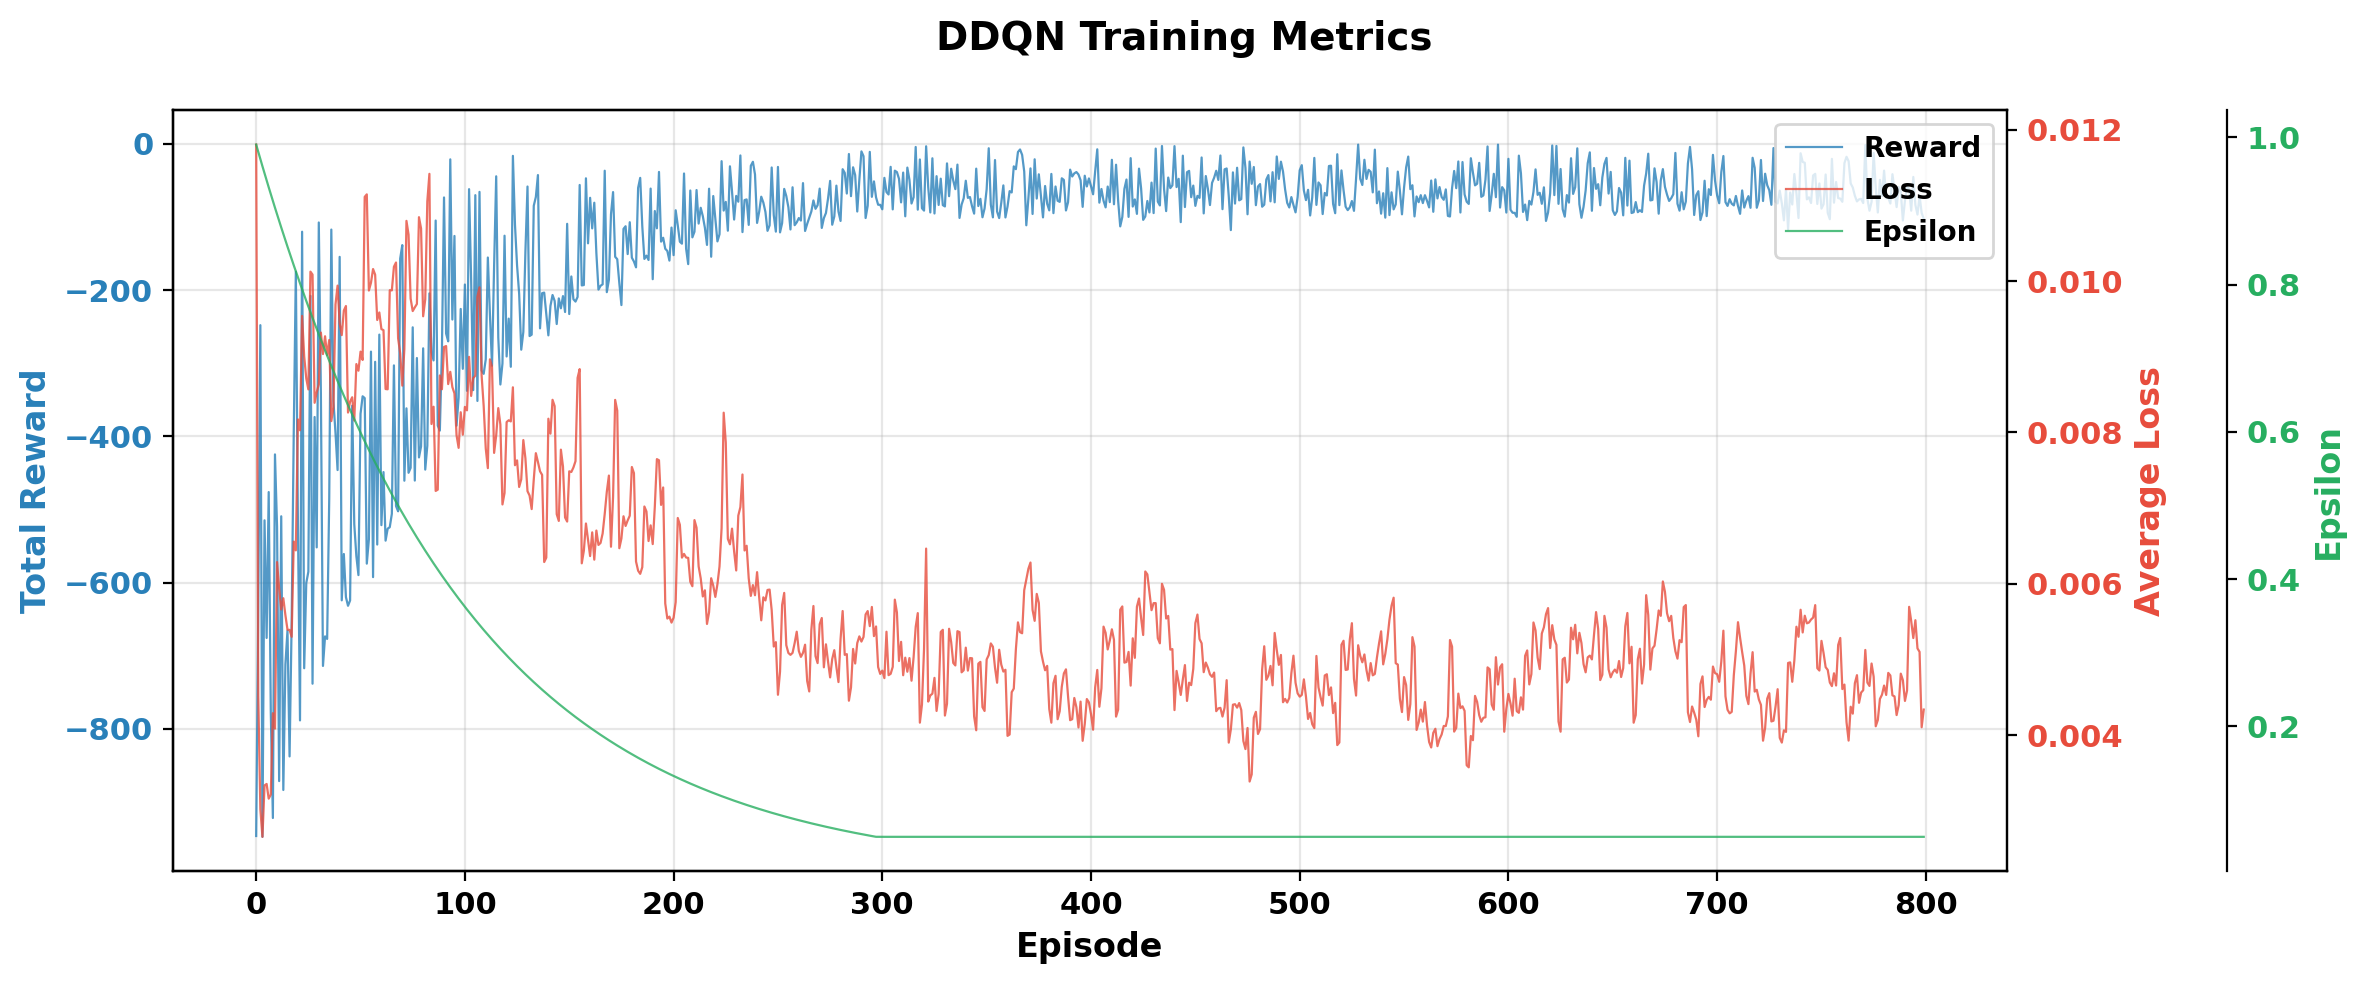
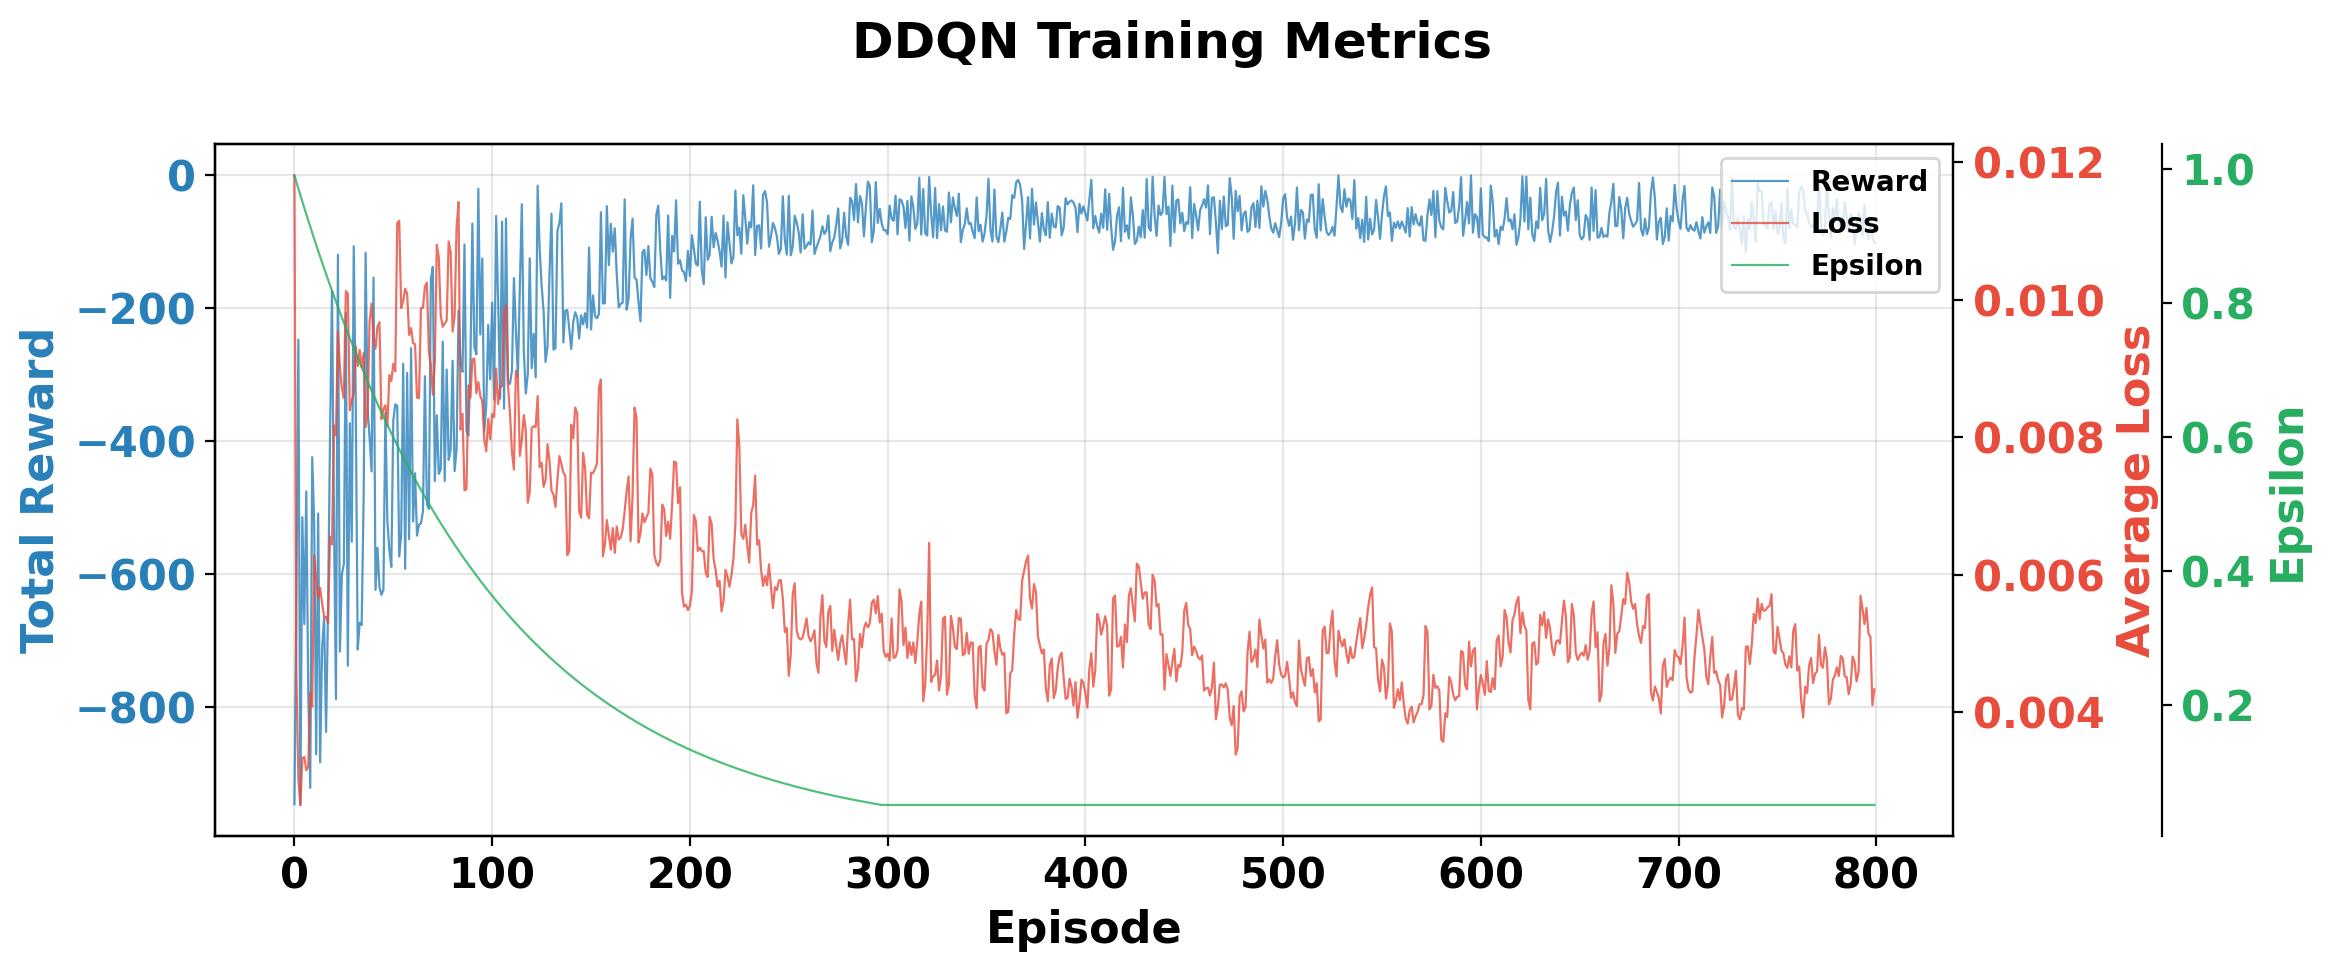
updated plotter fonts

diff --git a/plotter/plotter.py b/plotter/plotter.py
@@ -25,14 +25,18 @@ plt.rcParams.update(
         "axes.labelweight": "bold",
         "axes.titleweight": "bold",
         "figure.titleweight": "bold",
-        "font.size": 12,
-        "axes.labelsize": 13,
-        "axes.titlesize": 15,
-        "xtick.labelsize": 11,
-        "ytick.labelsize": 11,
-        "legend.fontsize": 11,
+        "font.size": 16,
+        "axes.labelsize": 16,
+        "axes.titlesize": 18,
+        "figure.titlesize": 18,
+        "xtick.labelsize": 15,
+        "ytick.labelsize": 15,
+        "legend.fontsize": 10,
     }
 )
+
+# Canonical annotation font size (used for ax.annotate calls across all plots)
+ANNOTATION_FONTSIZE = 9
 
 # ---------------------------------------------------------------------------
 # Paths
@@ -204,21 +208,21 @@ def plot_training(csv_path: Path):
     color_e = "#27ae60"
 
     # Axis 1: Reward
-    ax1.set_xlabel("Episode", fontsize=12)
-    ax1.set_ylabel("Total Reward", color=color_r, fontsize=12)
+    ax1.set_xlabel("Episode")
+    ax1.set_ylabel("Total Reward", color=color_r)
     ax1.plot(episodes, rewards, color=color_r, alpha=0.8, linewidth=0.8, label="Reward")
     ax1.tick_params(axis="y", labelcolor=color_r)
 
     # Axis 2: Loss
     ax2 = ax1.twinx()
-    ax2.set_ylabel("Average Loss", color=color_l, fontsize=12)
+    ax2.set_ylabel("Average Loss", color=color_l)
     ax2.plot(episodes, losses, color=color_l, alpha=0.8, linewidth=0.8, label="Loss")
     ax2.tick_params(axis="y", labelcolor=color_l)
 
     # Axis 3: Epsilon
     ax3 = ax1.twinx()
     ax3.spines["right"].set_position(("axes", 1.12))
-    ax3.set_ylabel("Epsilon", color=color_e, fontsize=12)
+    ax3.set_ylabel("Epsilon", color=color_e)
     ax3.plot(
         episodes, epsilons, color=color_e, alpha=0.8, linewidth=0.8, label="Epsilon"
     )
@@ -227,10 +231,10 @@ def plot_training(csv_path: Path):
     # Combined legend
     lines = ax1.get_lines() + ax2.get_lines() + ax3.get_lines()
     labels = [l.get_label() for l in lines]
-    ax1.legend(lines, labels, loc="upper right", fontsize=10)
+    ax1.legend(lines, labels, loc="upper right")
     ax1.grid(True, alpha=0.3)
 
-    fig.suptitle("DDQN Training Metrics", fontsize=14, fontweight="bold")
+    fig.suptitle("DDQN Training Metrics")
     fig.tight_layout()
     out = CSV_DIR.parent / "reward_loss.png"
     fig.savefig(out, dpi=200, bbox_inches="tight")
@@ -280,13 +284,11 @@ def plot_performance_bars(csv_path: Path):
         alpha=0.75,
     )
 
-    ax.set_ylabel("Count", fontsize=12)
-    ax.set_title(
-        "Average Handovers & Pingpongs (10 Seeds)", fontsize=14, fontweight="bold"
-    )
+    ax.set_ylabel("Count")
+    ax.set_title("Average Handovers & Pingpongs (10 Seeds)")
     ax.set_xticks(x)
-    ax.set_xticklabels(x_labels, fontsize=11)
-    ax.legend(fontsize=10)
+    ax.set_xticklabels(x_labels)
+    ax.legend()
     ax.grid(True, axis="y", alpha=0.3)
 
     # Value annotations
@@ -299,7 +301,7 @@ def plot_performance_bars(csv_path: Path):
             textcoords="offset points",
             ha="center",
             va="bottom",
-            fontsize=9,
+            fontsize=ANNOTATION_FONTSIZE,
         )
 
     ax.yaxis.set_major_locator(ticker.MaxNLocator(integer=True))
@@ -331,12 +333,10 @@ def plot_rsrp_kde(csv_path: Path):
             ax=ax,
         )
 
-    ax.set_xlabel("Averaged RSRP (Normalized)", fontsize=12)
-    ax.set_ylabel("Density", fontsize=12)
-    ax.set_title(
-        "RSRP Distribution (KDE) Across Algorithms", fontsize=14, fontweight="bold"
-    )
-    ax.legend(fontsize=11)
+    ax.set_xlabel("Averaged RSRP (Normalized)")
+    ax.set_ylabel("Density")
+    ax.set_title("RSRP Distribution (KDE) Across Algorithms")
+    ax.legend()
     ax.grid(True, alpha=0.3)
     fig.tight_layout()
     out = CSV_DIR.parent / "rsrp_kde.png"
@@ -387,13 +387,11 @@ def plot_performance_bars_sum(csv_path: Path):
         alpha=0.75,
     )
 
-    ax.set_ylabel("Count", fontsize=12)
-    ax.set_title(
-        "Total Handovers & Pingpongs (Sum of 10 Seeds)", fontsize=14, fontweight="bold"
-    )
+    ax.set_ylabel("Count")
+    ax.set_title("Total Handovers & Pingpongs (Sum of 10 Seeds)")
     ax.set_xticks(x)
-    ax.set_xticklabels(x_labels, fontsize=11)
-    ax.legend(fontsize=10)
+    ax.set_xticklabels(x_labels)
+    ax.legend()
     ax.grid(True, axis="y", alpha=0.3)
 
     for bar in list(bars1) + list(bars2):
@@ -405,7 +403,7 @@ def plot_performance_bars_sum(csv_path: Path):
             textcoords="offset points",
             ha="center",
             va="bottom",
-            fontsize=9,
+            fontsize=ANNOTATION_FONTSIZE,
         )
 
     ax.yaxis.set_major_locator(ticker.MaxNLocator(integer=True))
@@ -447,9 +445,9 @@ def _plot_ho_pprate_bars(csv_path: Path, agg_key: str, title: str, out_name: str
         edgecolor="black",
         linewidth=0.5,
     )
-    ax1.set_ylabel("Handovers", fontsize=12)
+    ax1.set_ylabel("Handovers")
     ax1.set_xticks(x)
-    ax1.set_xticklabels(x_labels, fontsize=11)
+    ax1.set_xticklabels(x_labels)
     ax1.yaxis.set_major_locator(ticker.MaxNLocator(integer=True))
     ax1.grid(True, axis="y", alpha=0.3)
 
@@ -465,7 +463,7 @@ def _plot_ho_pprate_bars(csv_path: Path, agg_key: str, title: str, out_name: str
         hatch="///",
         alpha=0.75,
     )
-    ax2.set_ylabel("Pingpong Rate (%)", fontsize=12)
+    ax2.set_ylabel("Pingpong Rate (%)")
 
     for bar in bars1:
         h = bar.get_height()
@@ -476,7 +474,7 @@ def _plot_ho_pprate_bars(csv_path: Path, agg_key: str, title: str, out_name: str
             textcoords="offset points",
             ha="center",
             va="bottom",
-            fontsize=9,
+            fontsize=ANNOTATION_FONTSIZE,
         )
     for bar in bars2:
         h = bar.get_height()
@@ -487,14 +485,14 @@ def _plot_ho_pprate_bars(csv_path: Path, agg_key: str, title: str, out_name: str
             textcoords="offset points",
             ha="center",
             va="bottom",
-            fontsize=9,
+            fontsize=ANNOTATION_FONTSIZE,
         )
 
     lines1, labels1 = ax1.get_legend_handles_labels()
     lines2, labels2 = ax2.get_legend_handles_labels()
-    ax1.legend(lines1 + lines2, labels1 + labels2, fontsize=10)
+    ax1.legend(lines1 + lines2, labels1 + labels2)
 
-    fig.suptitle(title, fontsize=14, fontweight="bold")
+    fig.suptitle(title)
     fig.tight_layout()
     out = CSV_DIR.parent / out_name
     fig.savefig(out, dpi=200, bbox_inches="tight")
@@ -568,15 +566,11 @@ def plot_reduction_vs_a3(csv_path: Path):
         alpha=0.75,
     )
 
-    ax.set_ylabel("Reduction vs A3-RSRP (%)", fontsize=12)
-    ax.set_title(
-        "Improvement Over A3-RSRP Baseline (10 Seeds Avg)",
-        fontsize=14,
-        fontweight="bold",
-    )
+    ax.set_ylabel("Reduction vs A3-RSRP (%)")
+    ax.set_title("Improvement Over A3-RSRP Baseline (10 Seeds Avg)")
     ax.set_xticks(x)
-    ax.set_xticklabels(x_labels, fontsize=11)
-    ax.legend(fontsize=8, loc="upper center", bbox_to_anchor=(0.59, 1.0))
+    ax.set_xticklabels(x_labels)
+    ax.legend(loc="upper center", bbox_to_anchor=(0.59, 1.0))
 
     for bar in list(bars1) + list(bars2):
         h = bar.get_height()
@@ -587,7 +581,7 @@ def plot_reduction_vs_a3(csv_path: Path):
             textcoords="offset points",
             ha="center",
             va="bottom",
-            fontsize=9,
+            fontsize=ANNOTATION_FONTSIZE,
         )
 
     ax.yaxis.set_major_formatter(ticker.FormatStrFormatter("%.1f%%"))
@@ -631,12 +625,8 @@ def plot_rsrp_boxplot(csv_path: Path):
         median.set_color("black")
         median.set_linewidth(1.5)
 
-    ax.set_ylabel("Averaged RSRP (Normalized)", fontsize=12)
-    ax.set_title(
-        "RSRP Distribution (Box Plot) Across Algorithms",
-        fontsize=14,
-        fontweight="bold",
-    )
+    ax.set_ylabel("Averaged RSRP (Normalized)")
+    ax.set_title("RSRP Distribution (Box Plot) Across Algorithms")
     ax.grid(True, axis="y", alpha=0.3)
     fig.tight_layout()
     out = CSV_DIR.parent / "rsrp_boxplot.png"
@@ -682,18 +672,10 @@ def plot_rsrp_violin(csv_path: Path):
         parts[key].set_linewidth(0.8)
 
     ax.set_xticks(range(len(ALGORITHMS)))
-    ax.set_xticklabels([ALGO_DISPLAY[a] for a in ALGORITHMS], fontsize=11)
-    ax.set_ylabel("Averaged RSRP (Normalized)", fontsize=12)
-    ax.set_title(
-        "RSRP Distribution (Violin Plot) Across Algorithms",
-        fontsize=14,
-        fontweight="bold",
-    )
-    ax.legend(
-        [parts["cmedians"], parts["cmeans"]],
-        ["Median", "Mean"],
-        fontsize=10,
-    )
+    ax.set_xticklabels([ALGO_DISPLAY[a] for a in ALGORITHMS])
+    ax.set_ylabel("Averaged RSRP (Normalized)")
+    ax.set_title("RSRP Distribution (Violin Plot) Across Algorithms")
+    ax.legend([parts["cmedians"], parts["cmeans"]], ["Median", "Mean"])
     ax.grid(True, axis="y", alpha=0.3)
     fig.tight_layout()
     out = CSV_DIR.parent / "rsrp_violin.png"
@@ -731,10 +713,10 @@ def plot_rsrp_fft(csv_path: Path):
             label=ALGO_DISPLAY[algo],
         )
 
-    ax.set_xlabel("Normalized Frequency", fontsize=12)
-    ax.set_ylabel("Magnitude", fontsize=12)
-    ax.set_title("FFT of RSRP Signal Across Algorithms", fontsize=14, fontweight="bold")
-    ax.legend(fontsize=11)
+    ax.set_xlabel("Normalized Frequency")
+    ax.set_ylabel("Magnitude")
+    ax.set_title("FFT of RSRP Signal Across Algorithms")
+    ax.legend()
     ax.grid(True, alpha=0.3)
     fig.tight_layout()
     out = CSV_DIR.parent / "rsrp_fft.png"
@@ -792,15 +774,11 @@ def plot_rsrp_mean_bar(csv_path: Path):
             textcoords="offset points",
             ha="center",
             va="bottom",
-            fontsize=10,
+            fontsize=ANNOTATION_FONTSIZE,
         )
 
-    ax.set_ylabel("Mean RSRP (Normalized)", fontsize=12)
-    ax.set_title(
-        "Mean RSRP Across Algorithms (10 Seeds Avg)",
-        fontsize=14,
-        fontweight="bold",
-    )
+    ax.set_ylabel("Mean RSRP (Normalized)")
+    ax.set_title("Mean RSRP Across Algorithms (10 Seeds Avg)")
     ax.grid(True, axis="y", alpha=0.3)
     fig.tight_layout()
     out = CSV_DIR.parent / "rsrp_mean_bar.png"
@@ -843,15 +821,11 @@ def plot_rsrp_std_bar(csv_path: Path):
             textcoords="offset points",
             ha="center",
             va="bottom",
-            fontsize=10,
+            fontsize=ANNOTATION_FONTSIZE,
         )
 
-    ax.set_ylabel("RSRP Std Dev (Normalized)", fontsize=12)
-    ax.set_title(
-        "RSRP Standard Deviation Across Algorithms (10 Seeds Avg)",
-        fontsize=14,
-        fontweight="bold",
-    )
+    ax.set_ylabel("RSRP Std Dev (Normalized)")
+    ax.set_title("RSRP Standard Deviation Across Algorithms (10 Seeds Avg)")
     ax.grid(True, axis="y", alpha=0.3)
     fig.tight_layout()
     out = CSV_DIR.parent / "rsrp_std_bar.png"
@@ -898,14 +872,10 @@ def plot_rsrp_cloud(csv_path: Path):
         )
 
     ax.set_xticks(range(len(ALGORITHMS)))
-    ax.set_xticklabels([ALGO_DISPLAY[a] for a in ALGORITHMS], fontsize=11)
-    ax.set_ylabel("RSRP (Normalized)", fontsize=12)
-    ax.set_title(
-        "RSRP Cloud Plot Across Algorithms (10 Seeds Avg)",
-        fontsize=14,
-        fontweight="bold",
-    )
-    ax.legend(fontsize=10)
+    ax.set_xticklabels([ALGO_DISPLAY[a] for a in ALGORITHMS])
+    ax.set_ylabel("RSRP (Normalized)")
+    ax.set_title("RSRP Cloud Plot Across Algorithms (10 Seeds Avg)")
+    ax.legend()
     ax.grid(True, axis="y", alpha=0.3)
     fig.tight_layout()
     out = CSV_DIR.parent / "rsrp_cloud.png"
@@ -975,13 +945,9 @@ def plot_rsrp_raincloud(csv_path: Path):
         )
 
     ax.set_xticks(range(len(ALGORITHMS)))
-    ax.set_xticklabels([ALGO_DISPLAY[a] for a in ALGORITHMS], fontsize=11)
-    ax.set_ylabel("RSRP (Normalized)", fontsize=12)
-    ax.set_title(
-        "RSRP Raincloud Plot Across Algorithms (10 Seeds Avg)",
-        fontsize=14,
-        fontweight="bold",
-    )
+    ax.set_xticklabels([ALGO_DISPLAY[a] for a in ALGORITHMS])
+    ax.set_ylabel("RSRP (Normalized)")
+    ax.set_title("RSRP Raincloud Plot Across Algorithms (10 Seeds Avg)")
     ax.grid(True, axis="y", alpha=0.3)
     fig.tight_layout()
     out = CSV_DIR.parent / "rsrp_raincloud.png"
@@ -1006,12 +972,10 @@ def plot_rsrp_raw(csv_path: Path):
             label=ALGO_DISPLAY[algo],
         )
 
-    ax.set_xlabel("Simulation Timestep", fontsize=12)
-    ax.set_ylabel("Averaged RSRP (Normalized)", fontsize=12)
-    ax.set_title(
-        "Raw RSRP Over Time (Averaged Across 10 Seeds)", fontsize=14, fontweight="bold"
-    )
-    ax.legend(fontsize=11)
+    ax.set_xlabel("Simulation Timestep")
+    ax.set_ylabel("Averaged RSRP (Normalized)")
+    ax.set_title("Raw RSRP Over Time (Averaged Across 10 Seeds)")
+    ax.legend()
     ax.grid(True, alpha=0.3)
     fig.tight_layout()
     out = CSV_DIR.parent / "rsrp_raw.png"
@@ -1046,10 +1010,10 @@ def plot_rsrp_ema(csv_path: Path, span: int = 100):
             label=f"{ALGO_DISPLAY[algo]} (EMA {span})",
         )
 
-    ax.set_xlabel("Simulation Timestep", fontsize=12)
-    ax.set_ylabel("RSRP (Normalized)", fontsize=12)
-    ax.set_title("RSRP with Exponential Moving Average", fontsize=14, fontweight="bold")
-    ax.legend(fontsize=11)
+    ax.set_xlabel("Simulation Timestep")
+    ax.set_ylabel("RSRP (Normalized)")
+    ax.set_title("RSRP with Exponential Moving Average")
+    ax.legend()
     ax.grid(True, alpha=0.3)
     fig.tight_layout()
     out = CSV_DIR.parent / "rsrp_ema.png"
@@ -1095,14 +1059,10 @@ def plot_rsrp_ema_zoomed(csv_path: Path, span: int = 100):
         )
 
     ax.set_ylim(y_lo * 100, y_hi * 100)
-    ax.set_xlabel("Simulation Timestep", fontsize=12)
-    ax.set_ylabel("RSRP Signal Quality (%)", fontsize=12)
-    ax.set_title(
-        f"RSRP — Exponential Moving Average (span={span}, zoomed)",
-        fontsize=14,
-        fontweight="bold",
-    )
-    ax.legend(fontsize=11)
+    ax.set_xlabel("Simulation Timestep")
+    ax.set_ylabel("RSRP Signal Quality (%)")
+    ax.set_title(f"RSRP — Exponential Moving Average (span={span}, zoomed)")
+    ax.legend()
     ax.grid(True, alpha=0.3)
     fig.tight_layout()
     out = CSV_DIR.parent / "rsrp_ema_zoomed.png"
